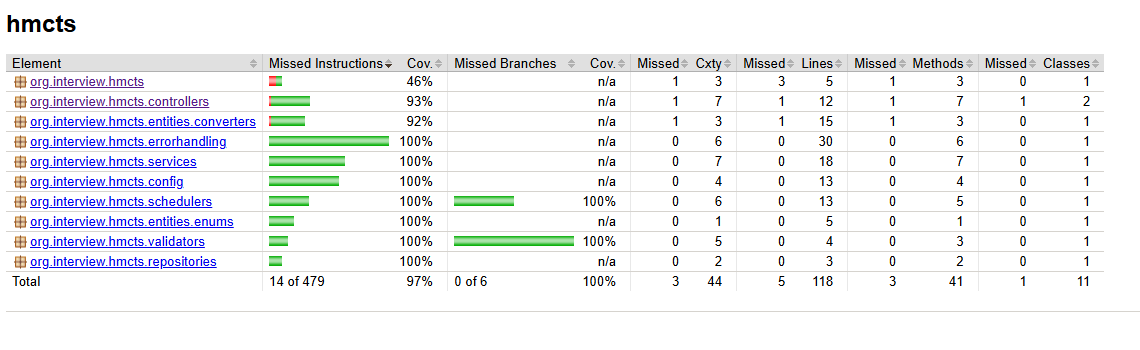
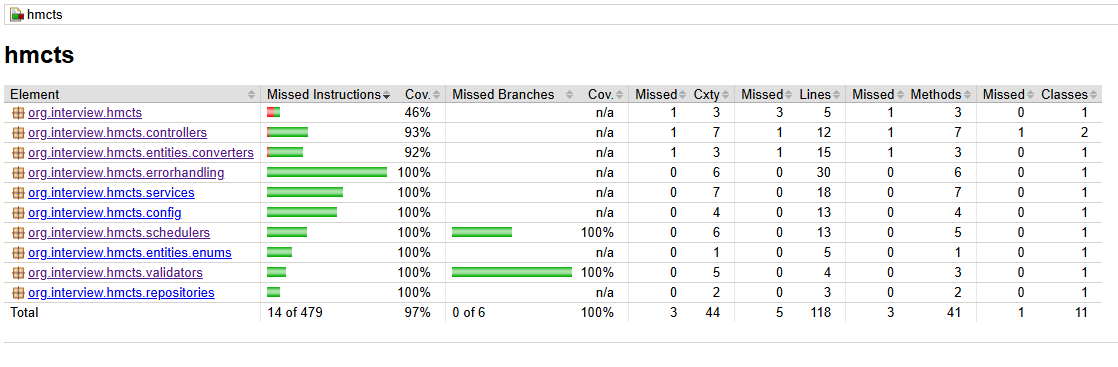
Updating test coverage images and optimizing imports

Changed region(s): [[0.0, 0.0, 1.0, 0.8857]]

diff --git a/frontend/src/app/core/error-handling/http-error.interceptor.spec.ts b/frontend/src/app/core/error-handling/http-error.interceptor.spec.ts
@@ -1,8 +1,8 @@
-import { TestBed } from '@angular/core/testing';
-import { HttpErrorInterceptor } from './http-error.interceptor';
-import { NotificationService } from '../../shared/services/notification.service';
-import { HttpHandler, HttpRequest, HttpErrorResponse, HttpEvent } from '@angular/common/http';
-import { of, throwError } from 'rxjs';
+import {TestBed} from '@angular/core/testing';
+import {HttpErrorInterceptor} from './http-error.interceptor';
+import {NotificationService} from '../../shared/services/notification.service';
+import {HttpErrorResponse, HttpEvent, HttpHandler, HttpRequest} from '@angular/common/http';
+import {of, throwError} from 'rxjs';
 
 describe('HttpErrorInterceptor', () => {
     let httpErrorInterceptor: HttpErrorInterceptor;

diff --git a/frontend/src/app/shared/confirm-dialog/confirm-dialog.component.spec.ts b/frontend/src/app/shared/confirm-dialog/confirm-dialog.component.spec.ts
@@ -1,6 +1,5 @@
 import {ComponentFixture, TestBed} from '@angular/core/testing';
-import {MAT_DIALOG_DATA} from '@angular/material/dialog';
-import {MatDialogRef} from '@angular/material/dialog';
+import {MAT_DIALOG_DATA, MatDialogRef} from '@angular/material/dialog';
 import {ConfirmDialogComponent} from './confirm-dialog.component';
 
 describe('TaskList', () => {

diff --git a/frontend/src/app/tasks/display-task/display-task.component.ts b/frontend/src/app/tasks/display-task/display-task.component.ts
@@ -4,7 +4,8 @@ import {Task} from '../models/task.model';
 import {ActivatedRoute, Router} from '@angular/router';
 import {takeUntilDestroyed} from '@angular/core/rxjs-interop';
 import {
-    MatCard, MatCardActions,
+    MatCard,
+    MatCardActions,
     MatCardAvatar,
     MatCardContent,
     MatCardHeader,

diff --git a/frontend/src/app/shared/services/notification.service.spec.ts b/frontend/src/app/shared/services/notification.service.spec.ts
@@ -1,5 +1,5 @@
 import {NotificationService} from './notification.service';
-import {MatSnackBar, MatSnackBarConfig, MatSnackBarRef} from '@angular/material/snack-bar';
+import {MatSnackBar} from '@angular/material/snack-bar';
 import {TestBed} from '@angular/core/testing';
 import any = jasmine.any;
 

diff --git a/frontend/src/app/shared/services/notification.service.ts b/frontend/src/app/shared/services/notification.service.ts
@@ -1,5 +1,5 @@
 import {inject, Injectable} from '@angular/core';
-import {MatSnackBar, MatSnackBarRef} from '@angular/material/snack-bar';
+import {MatSnackBar} from '@angular/material/snack-bar';
 
 @Injectable({
     providedIn: 'root',
